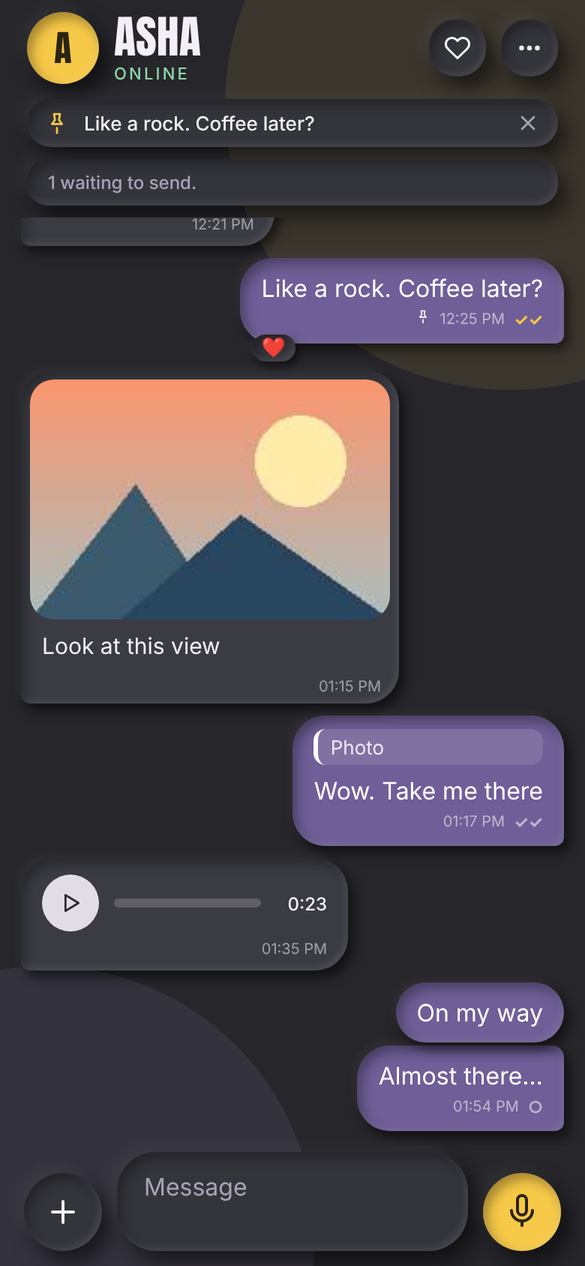
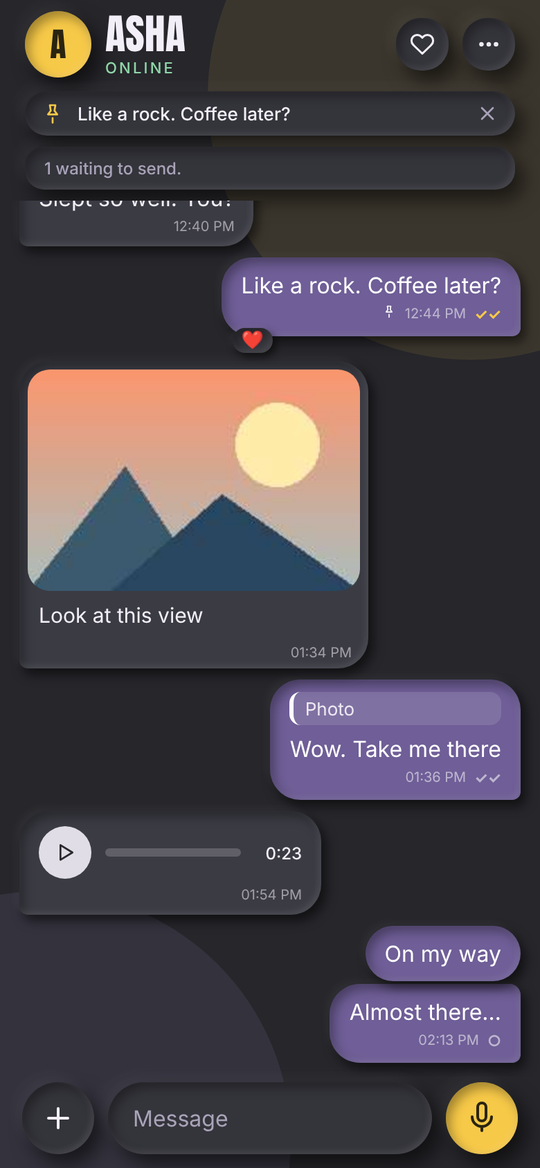
33 themes; README with the full screenshot set, theme wall and gallery; visible read ticks; one-line start for the message box; 0.3.2

Changed region(s): [[0.0296, 0.1541, 0.9778, 0.8014], [0.5926, 0.7705, 0.9778, 0.9555], [0.237, 0.9247, 0.4148, 0.9863]]

diff --git a/app/src/themes.ts b/app/src/themes.ts
@@ -88,6 +88,23 @@ const SEEDS: Seed[] = [
   { id: 'paper', name: 'Paper', dark: false, mood: 'Clean white and ink', bg: '#F4F4F2', surface: '#FFFFFF', text: '#17171A', accent: '#17171A', accent2: '#5A5A66', mine: '#17171A' },
   { id: 'sky', name: 'Sky', dark: false, mood: 'Light blue with navy', bg: '#E1EEFA', surface: '#F3F9FE', text: '#14284B', accent: '#2A6FCF', accent2: '#14407F', mine: '#2A6FCF' },
   { id: 'citrus', name: 'Citrus', dark: false, mood: 'Cream, orange and teal', bg: '#FFF3DA', surface: '#FFFAEC', text: '#33321A', accent: '#F28A1B', accent2: '#16897F', mine: '#12766E' },
+  // more dark
+  { id: 'aurora', name: 'Aurora', dark: true, mood: 'Northern lights: teal, mint and violet', bg: '#0E1B24', surface: '#172A36', text: '#E6F4F2', accent: '#7CF5C8', accent2: '#8F7CFF', mine: '#3B4FA8' },
+  { id: 'cherry', name: 'Cherry Night', dark: true, mood: 'Deep wine with cherry and amber', bg: '#1C1016', surface: '#2B1822', text: '#FBE9EE', accent: '#FF5C7A', accent2: '#FFB86B', mine: '#A32A4B' },
+  { id: 'cobalt', name: 'Cobalt', dark: true, mood: 'Ink blue with bright cobalt and gold', bg: '#0B1020', surface: '#141C36', text: '#E8EDFF', accent: '#5B8CFF', accent2: '#FFC857', mine: '#2A4BB5' },
+  { id: 'moss', name: 'Moss', dark: true, mood: 'Mossy dark with soft lime', bg: '#14180F', surface: '#1F2616', text: '#EEF2DF', accent: '#D7E36B', accent2: '#8FBF6A', mine: '#55702D' },
+  { id: 'dusk', name: 'Dusk', dark: true, mood: 'Plum evening with orange and rose', bg: '#201522', surface: '#2E1D31', text: '#F9EBF2', accent: '#FF9E5E', accent2: '#FF5E8E', mine: '#B8436B' },
+  { id: 'galaxy', name: 'Galaxy', dark: true, mood: 'Space indigo with stardust gold', bg: '#12102B', surface: '#1D1A42', text: '#EDEBFF', accent: '#FFD166', accent2: '#B79CFF', mine: '#4B3FA8' },
+  // more light
+  { id: 'peach', name: 'Peach', dark: false, mood: 'Soft peach with warm orange', bg: '#FFE9DC', surface: '#FFF5EE', text: '#4A2A1C', accent: '#D9623A', accent2: '#A03A22', mine: '#D9623A' },
+  { id: 'mint', name: 'Mint', dark: false, mood: 'Cool mint and deep green', bg: '#DFF5EC', surface: '#F2FCF8', text: '#17382D', accent: '#14946E', accent2: '#0F6E56', mine: '#14946E' },
+  { id: 'butter', name: 'Butter', dark: false, mood: 'Buttery yellow with olive', bg: '#FFF6C9', surface: '#FFFBE6', text: '#3A3512', accent: '#C99700', accent2: '#6B5E00', mine: '#6B5E00' },
+  { id: 'periwinkle', name: 'Periwinkle', dark: false, mood: 'Blue-violet and crisp white', bg: '#E4E8FF', surface: '#F5F6FF', text: '#1E2250', accent: '#4F5BE0', accent2: '#3340B8', mine: '#4F5BE0' },
+  { id: 'reef', name: 'Coral Reef', dark: false, mood: 'Coral pink with sea teal', bg: '#FFE3E0', surface: '#FFF3F1', text: '#4A1E1E', accent: '#E5513F', accent2: '#1B8F8A', mine: '#1B8F8A' },
+  { id: 'blossom', name: 'Blossom', dark: false, mood: 'Orchid pink and plum', bg: '#F7E6F5', surface: '#FDF3FC', text: '#3E1F3D', accent: '#B1409F', accent2: '#7A2C75', mine: '#B1409F' },
+  { id: 'glacier', name: 'Glacier', dark: false, mood: 'Icy blue with deep teal', bg: '#E6F4F7', surface: '#F4FBFC', text: '#12363D', accent: '#12809A', accent2: '#0B5A6B', mine: '#12809A' },
+  { id: 'lemonade', name: 'Lemonade', dark: false, mood: 'Fresh lemon, pink and green', bg: '#FFF9D6', surface: '#FFFDEE', text: '#33321A', accent: '#E0457B', accent2: '#2F9E6B', mine: '#E0457B' },
+  { id: 'dawn', name: 'Dawn', dark: false, mood: 'First light: rose, gold and soft blue', bg: '#FDEBE3', surface: '#FFF7F2', text: '#3A2438', accent: '#E8734A', accent2: '#4C6FB8', mine: '#4C6FB8' },
 ];
 
 export const THEMES: Theme[] = [...HAND, ...SEEDS.map(make)];

diff --git a/app/src/screens/Chat.tsx b/app/src/screens/Chat.tsx
@@ -14,7 +14,7 @@ import { Body, Button, Clay, ClayPress, H1, Label, Switch } from '../ui/Clay';
 import { Icon } from '../ui/Icon';
 import { Backdrop } from '../ui/Backdrop';
 import { fonts, useTheme } from '../theme';
-import { contrast } from '../colors';
+import { contrast, luminance } from '../colors';
 import { whileSystemUi } from '../core/lockGuard';
 import { useBackHandler } from '../core/backStack';
 import { session } from '../core/session';
@@ -292,7 +292,7 @@ export function Chat({ nickname, ttlSeconds, onSettings, onNotes, onStarred, onI
           </ClayPress>
           <Clay radius={26} style={{ flex: 1, paddingHorizontal: 18, minHeight: 52 }}>
             {/* one line is exactly as tall as the round buttons; longer text grows the box, then scrolls inside it */}
-            <TextInput value={text} multiline scrollEnabled placeholder="Message" placeholderTextColor={t.textDim}
+            <TextInput value={text} multiline numberOfLines={1} scrollEnabled placeholder="Message" placeholderTextColor={t.textDim}
               onChangeText={(v) => { setText(v); if (v) session.typing(true); }}
               style={{ color: t.text, fontFamily: fonts.body, fontSize: 16, lineHeight: 22, paddingTop: 15, paddingBottom: 15, minHeight: 52, maxHeight: 150, textAlignVertical: 'center', includeFontPadding: false }} />
           </Clay>
@@ -402,6 +402,8 @@ function Bubble({ m, first, last, quoted, onReply, onMenu, onOpen }: {
   const bg = mine ? t.bubbleMine : t.bubbleTheirs;
   const fg = mine ? t.onMine : t.onTheirs;
   const time = new Date(m.ts).toLocaleTimeString([], { hour: '2-digit', minute: '2-digit' });
+  // the "read" ticks must stand out on any bubble colour
+  const readTick = contrast(t.accent, bg) >= 3 ? t.accent : luminance(bg) < 0.35 ? '#8DF5C8' : '#0B6B4C';
   const isImg = m.kind === 'img';
   const ratio = m.w && m.h ? m.w / m.h : 1;
   const iw = ratio >= 1 ? 240 : Math.max(150, 240 * ratio), ih = Math.min(320, iw / ratio);
@@ -450,7 +452,7 @@ function Bubble({ m, first, last, quoted, onReply, onMenu, onOpen }: {
                 {m.exp > 0 && <Icon name="timer" size={10} color={fg} />}
                 <Text style={{ color: fg, opacity: 0.55, fontSize: 10, fontFamily: fonts.body }}>{time}</Text>
                 {mine && !m.deleted && (
-                  <Text style={{ color: m.state === 3 ? (contrast(t.accent, bg) >= 2.2 ? t.accent : t.good) : fg, opacity: m.state === 3 ? 1 : 0.55, fontSize: 11, fontFamily: fonts.bold }}>{tick(m)}</Text>
+                  <Text style={{ color: m.state === 3 ? readTick : fg, opacity: m.state === 3 ? 1 : 0.55, fontSize: 11, fontFamily: fonts.bold }}>{tick(m)}</Text>
                 )}
               </View>
             )}

diff --git a/app/preview/Preview.tsx b/app/preview/Preview.tsx
@@ -22,6 +22,8 @@ import { Setup } from '../src/screens/Setup';
 import { StarredScreen } from '../src/screens/Starred';
 import { SharedNotesScreen } from '../src/screens/SharedNotes';
 import { SAMPLE_THUMB } from './sampleThumb';
+import { ImportWhatsApp } from '../src/screens/ImportWhatsApp';
+import { BackupScreen } from '../src/screens/Backup';
 
 const now = Date.now();
 const m = (o: Partial<Msg> & { id: string; mine: boolean; ago: number }): Msg => ({
@@ -54,10 +56,12 @@ function Inner() {
       {screen === 'chat' && <Chat nickname="Asha" ttlSeconds={q.get('ttl') ? 86400 : 0} onSettings={noop} onNotes={noop} onStarred={noop} onImport={noop} />}
       {screen === 'settings' && <SettingsScreen settings={{ ...defaultSettings, theme: q.get('theme') ?? 'auto' }} onChange={noop} onBack={noop} onLock={noop} onPanic={noop} />}
       {screen === 'themes' && <ThemeGallery theme={q.get('theme') ?? 'auto'} accent={q.get('accent') ?? ''} onTheme={noop} onAccent={noop} onBack={noop} />}
-      {screen === 'calc' && <Calculator tryUnlock={async () => false} />}
+      {screen === 'calc' && <Calculator tryUnlock={async () => false} initialSci={q.get('sci') === '1'} initialExpr={q.get('expr') ?? ''} />}
       {screen === 'notes' && <Notes tryUnlock={async () => false} titleUnlock={false} />}
       {screen === 'setup' && <Setup onDone={noop} />}
       {screen === 'setupcodes' && <Setup onDone={noop} initialStep="codes" />}
+      {screen === 'import' && <ImportWhatsApp onBack={noop} />}
+      {screen === 'backup' && <BackupScreen settings={defaultSettings} onSettings={noop} onBack={noop} nickname="Asha" />}
       {screen === 'starred' && <StarredScreen nickname="Asha" onBack={noop} />}
       {screen === 'sharednotes' && <SharedNotesScreen onBack={noop} />}
     </View>

diff --git a/app/src/disguise/Calculator.tsx b/app/src/disguise/Calculator.tsx
@@ -26,13 +26,13 @@ const isOp = (c: string) => OPS.includes(c);
 
 interface Entry { expr: string; result: string }
 
-export function Calculator({ tryUnlock, onSecret }: { tryUnlock: (code: string) => Promise<boolean>; onSecret?: () => void }) {
+export function Calculator({ tryUnlock, onSecret, initialSci, initialExpr }: { tryUnlock: (code: string) => Promise<boolean>; onSecret?: () => void; initialSci?: boolean; initialExpr?: string }) {
   const t = useTheme();
   const ins = useSafeAreaInsets();
   const { width } = useWindowDimensions();
-  const [expr, setExpr] = useState('');
+  const [expr, setExpr] = useState(initialExpr ?? '');
   const [shown, setShown] = useState<string | null>(null); // the sum, after pressing =
-  const [sci, setSci] = useState(false);
+  const [sci, setSci] = useState(!!initialSci);
   const [deg, setDeg] = useState(true);
   const [mem, setMem] = useState(0);
   const [history, setHistory] = useState<Entry[]>([]);

diff --git a/app/test/themes.test.ts b/app/test/themes.test.ts
@@ -4,7 +4,7 @@ import { THEMES, ACCENTS, resolveTheme } from '../src/themes';
 import { contrast } from '../src/colors';
 
 test('every theme is readable', () => {
-  assert.ok(THEMES.length >= 18);
+  assert.ok(THEMES.length >= 30);
   const bad: string[] = [];
   for (const t of THEMES) {
     const checks: [string, number, number][] = [

diff --git a/README.md b/README.md
@@ -6,21 +6,52 @@ Oracle's Always Free server, DuckDNS, Let's Encrypt, Firebase's free push, and y
 
 ## Screenshots
 
-![Setup, chat in Nocturne, chat in Monstera, theme gallery](docs/screenshots/overview.png)
+![Setup, chat in Aurora, scientific calculator, theme gallery](docs/screenshots/overview.png)
 
 These are the real screens rendered in a browser at phone size with made-up sample messages. They are not photos
 from a phone, so fonts and shadows can differ slightly on a device.
 
-| Chat, Midnight | Chat, Paper | Settings |
-|---|---|---|
-| <img src="docs/screenshots/chat-midnight.png" width="240"> | <img src="docs/screenshots/chat-paper.png" width="240"> | <img src="docs/screenshots/settings.png" width="240"> |
+### First run
+| Start | Choose your codes |
+|---|---|
+| <img src="docs/screenshots/setup-role.png" width="260"> | <img src="docs/screenshots/setup-codes.png" width="260"> |
 
-| Theme gallery | Calculator disguise | Shared notes | Starred |
+### Chat
+| Nocturne | Aurora (typing, disappearing on) | Glacier | Lemonade |
 |---|---|---|---|
-| <img src="docs/screenshots/theme-gallery.png" width="180"> | <img src="docs/screenshots/calculator.png" width="180"> | <img src="docs/screenshots/shared-notes.png" width="180"> | <img src="docs/screenshots/starred.png" width="180"> |
+| <img src="docs/screenshots/chat-nocturne.png" width="200"> | <img src="docs/screenshots/chat-aurora.png" width="200"> | <img src="docs/screenshots/chat-glacier.png" width="200"> | <img src="docs/screenshots/chat-lemonade.png" width="200"> |
+
+### 33 themes
+The same chat in twelve of them:
+
+![The same chat in twelve themes](docs/screenshots/theme-wall.png)
+
+| Theme gallery | The whole gallery |
+|---|---|
+| <img src="docs/screenshots/themes-top.png" width="260"> | <img src="docs/screenshots/theme-gallery-full.png" width="260"> |
+
+Dark: Nocturne, Midnight, Ember, Pine Night, Plum, Abyss, Graphite, Neon, Aurora, Cherry Night, Cobalt, Moss, Dusk, Galaxy.
+Light: Monstera, Swell, Rosewater, Matcha, Lilac, Sand, Candy, Paper, Sky, Citrus, Peach, Mint, Butter, Periwinkle,
+Coral Reef, Blossom, Glacier, Lemonade, Dawn. Plus **Auto**, which follows your phone, and an accent colour you can
+lay over any of them.
+
+### The calculator disguise
+| Everyday | Scientific (sin, cos, tan, ln, log, powers, brackets, memory, history) |
+|---|---|
+| <img src="docs/screenshots/calc.png" width="260"> | <img src="docs/screenshots/calc-sci.png" width="260"> |
+
+### Settings and tools
+| Settings | Backup and restore | Import a WhatsApp chat |
+|---|---|---|
+| <img src="docs/screenshots/settings.png" width="220"> | <img src="docs/screenshots/backup.png" width="220"> | <img src="docs/screenshots/import.png" width="220"> |
+
+| Shared notes | Starred messages | The Notes disguise |
+|---|---|---|
+| <img src="docs/screenshots/shared-notes.png" width="220"> | <img src="docs/screenshots/starred.png" width="220"> | <img src="docs/screenshots/notes.png" width="220"> |
 
 To make them again: `cd app && EXPO_PUBLIC_PREVIEW=1 npx expo export --platform web`, serve the output folder, and open
-`?screen=chat&theme=nocturne` (other screens: `settings`, `themes`, `calc`, `notes`, `setup`, `starred`, `sharednotes`).
+`?screen=chat&theme=aurora` (other screens: `settings`, `themes`, `calc` with `&sci=1&expr=...`, `notes`, `setup`,
+`setupcodes`, `starred`, `sharednotes`, `import`, `backup`).
 
 ## Features
 
@@ -45,6 +76,8 @@ To make them again: `cd app && EXPO_PUBLIC_PREVIEW=1 npx expo export --platform 
 - **Export** your chat back to a text file.
 
 **Disguise**
+- The calculator is a real one: brackets, powers, roots, factorial, sin/cos/tan in degrees or radians, ln and log, π and e,
+  memory keys and a history list.
 - Two fully working disguises (Calculator, Notes) and six more icons and names: Clock, Weather, Files, Compass,
   Calendar, Music. Switch any time in Settings. Add more in `app/config/disguises.js`.
 - Your own home-screen shortcut with any name and picture.
@@ -53,8 +86,8 @@ To make them again: `cd app && EXPO_PUBLIC_PREVIEW=1 npx expo export --platform 
 - Locks itself when you leave. Screenshots, screen recording and the recent-apps picture are blocked.
 
 **Look**
-- Soft "clay" style, smooth springs and fades, big headline type.
-- **Theme gallery**: 18 themes (dark and light) with live previews, an Auto mode, and an accent colour you can
+- Soft "clay" style, smooth fades with no bounce, big headline type.
+- **Theme gallery**: 33 themes (dark and light) with live previews, an Auto mode, and an accent colour you can
   lay over any of them. Every theme is built from a few base colours and checked by an automatic contrast test.
 - The design is checked in a real browser: `EXPO_PUBLIC_PREVIEW=1 npx expo export --platform web` builds a preview
   of the real screens with sample data (not part of the phone app).
